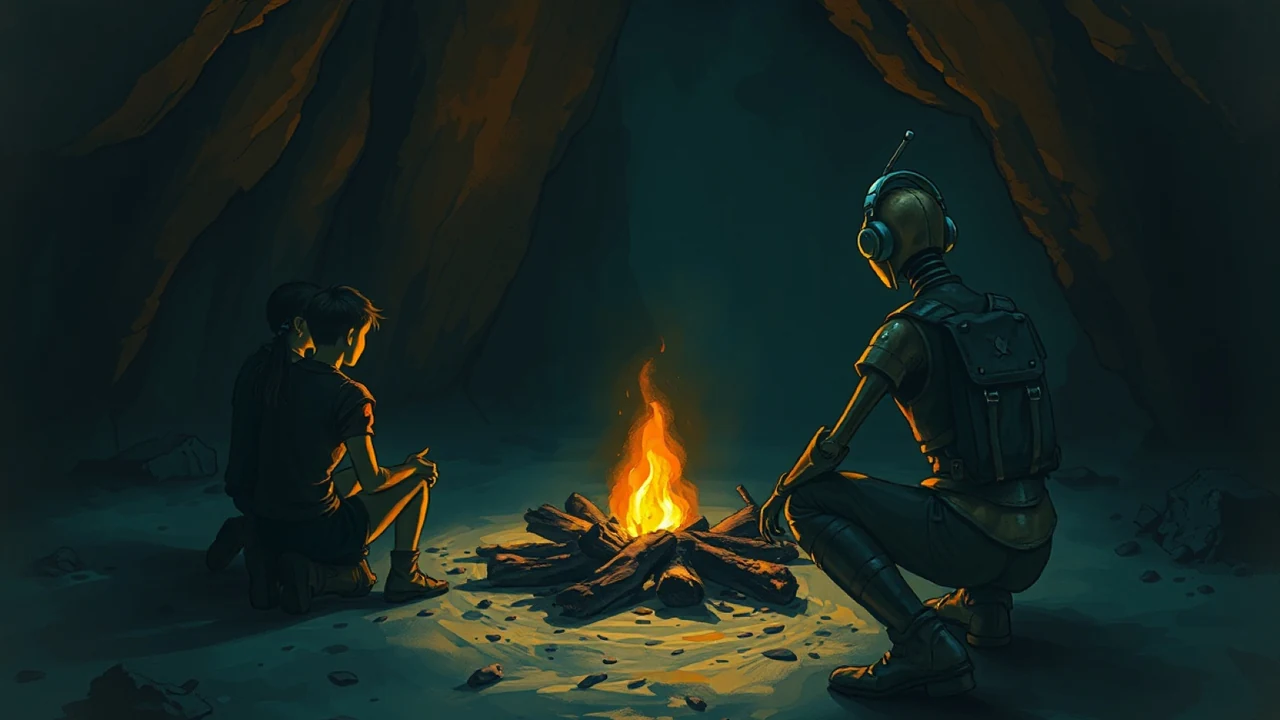
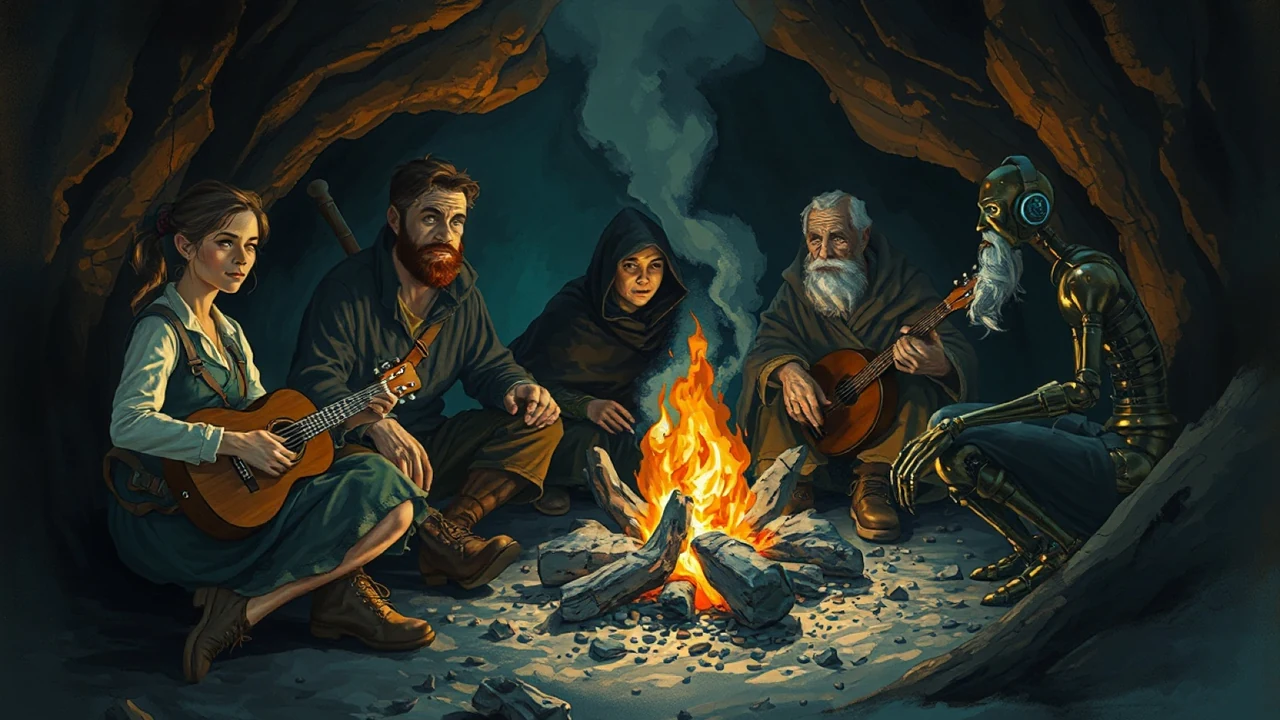
Round the Fire: repainted with grown-up adventurers
Sam found the first painting's figures too young.

Claude-Session: https://claude.ai/code/session_017vywRCVjN9ZXcPnixoRShm

diff --git a/index.html b/index.html
@@ -9064,7 +9064,7 @@ const IART={memory:iaMemory,patron:iaPatron,prayer:iaPrayer,fire:iaFire};
 const IPICT={memory:{src:"art/interlude-katy.webp",lx:.12,ly:.66,col:"#ffc070",r:.5,ash:0,sp:1},
   patron:{src:"art/interlude-saphira.webp",lx:.64,ly:.44,col:"#b49cff",r:.22,ash:1,sp:.35},
   prayer:{src:"art/interlude-stig.webp",lx:.355,ly:.68,col:"#ffc070",r:.42,ash:1,sp:.8},
-  fire:{src:"art/interlude-together.webp",lx:.51,ly:.68,col:"#ff9a40",r:.5,ash:-1,sp:1.4}};
+  fire:{src:"art/interlude-together.webp",lx:.53,ly:.72,col:"#ff9a40",r:.5,ash:-1,sp:1.4}};
 const IPIC={};
 function iPic(kind){const P=IPICT[kind];if(!P)return null;let im=IPIC[kind];
   if(!im){im=IPIC[kind]=new Image();im.decoding="async";

diff --git a/source/chronicle.html b/source/chronicle.html
@@ -9030,7 +9030,7 @@ const IART={memory:iaMemory,patron:iaPatron,prayer:iaPrayer,fire:iaFire};
 const IPICT={memory:{src:"art/interlude-katy.webp",lx:.12,ly:.66,col:"#ffc070",r:.5,ash:0,sp:1},
   patron:{src:"art/interlude-saphira.webp",lx:.64,ly:.44,col:"#b49cff",r:.22,ash:1,sp:.35},
   prayer:{src:"art/interlude-stig.webp",lx:.355,ly:.68,col:"#ffc070",r:.42,ash:1,sp:.8},
-  fire:{src:"art/interlude-together.webp",lx:.51,ly:.68,col:"#ff9a40",r:.5,ash:-1,sp:1.4}};
+  fire:{src:"art/interlude-together.webp",lx:.53,ly:.72,col:"#ff9a40",r:.5,ash:-1,sp:1.4}};
 const IPIC={};
 function iPic(kind){const P=IPICT[kind];if(!P)return null;let im=IPIC[kind];
   if(!im){im=IPIC[kind]=new Image();im.decoding="async";
